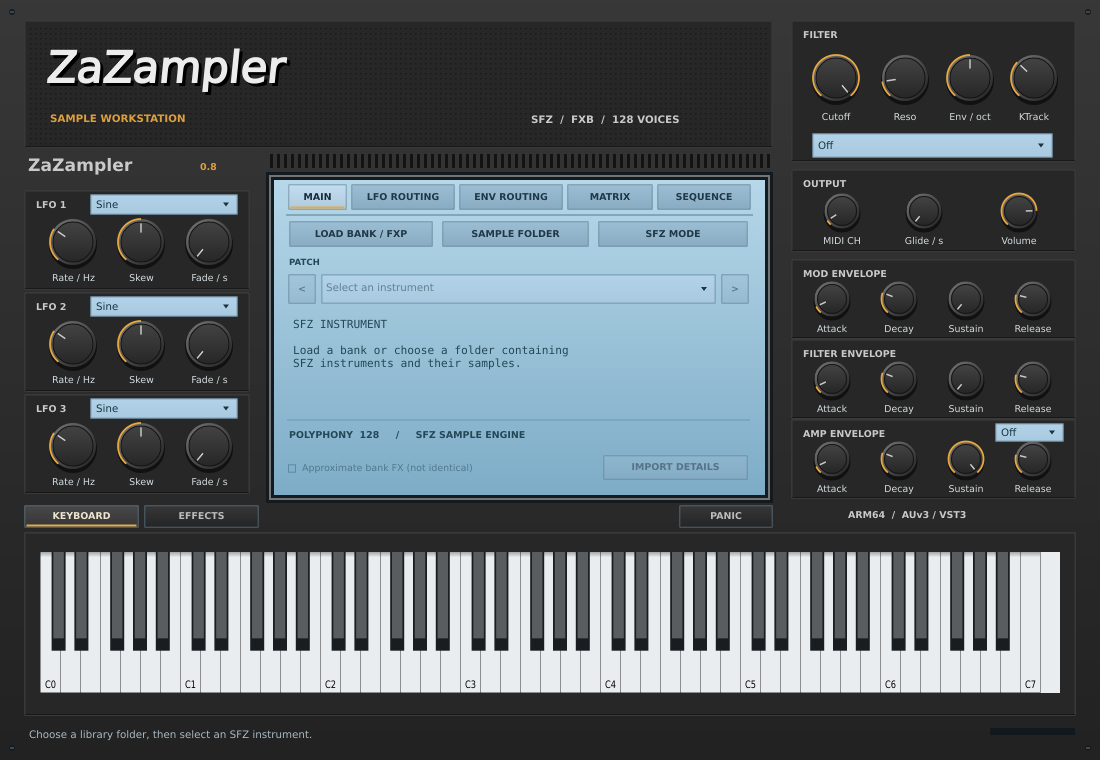
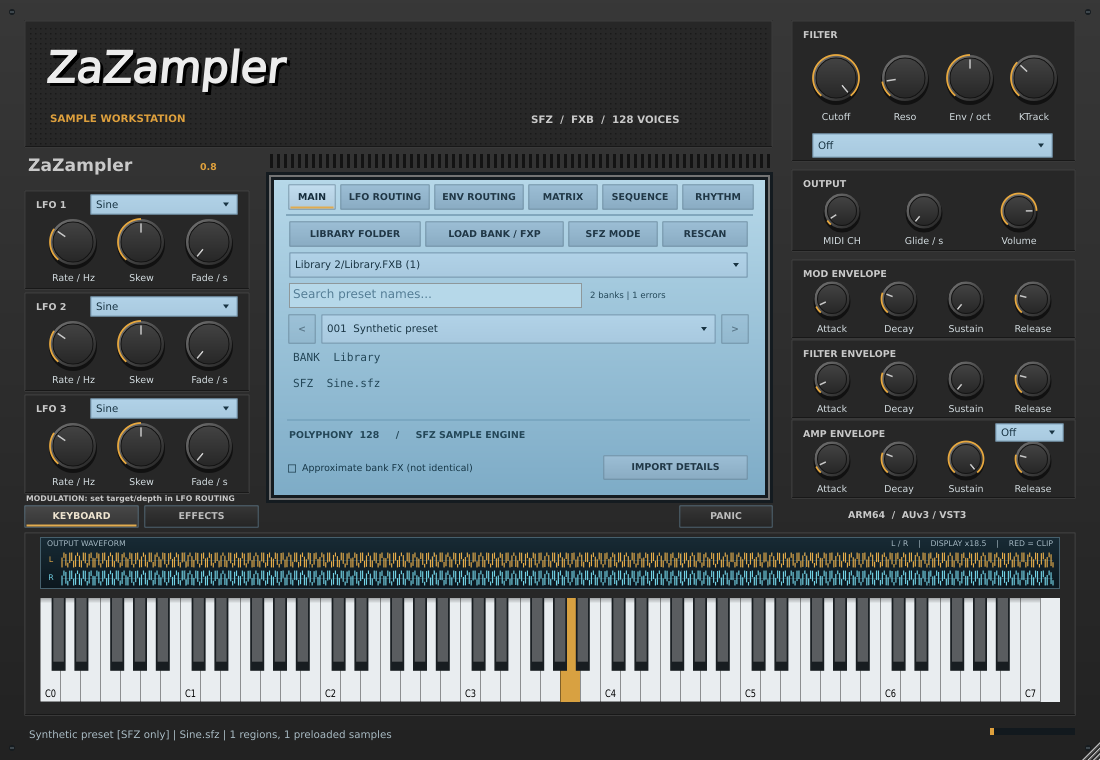
Add real-time stereo output visualizer above keyboard

diff --git a/Source/Editor.cpp b/Source/Editor.cpp
@@ -51,11 +51,11 @@ PanelControl& ZaZamplerEditor::knob(const char* id,const char* title,int x,int y
     auto& result=*c;controls.push_back(std::move(c));return result;
 }
 ZaZamplerEditor::ZaZamplerEditor(ZaZamplerProcessor& p)
-    : AudioProcessorEditor(p),processor(p),keyboard(p.keyboard,juce::MidiKeyboardComponent::horizontalKeyboard) {
+    : AudioProcessorEditor(p),processor(p),visualizer(p.waveform),keyboard(p.keyboard,juce::MidiKeyboardComponent::horizontalKeyboard) {
     setLookAndFeel(&look);
     addAndMakeVisible(canvas);
     canvas.setComponentID("instrumentCanvas");
-    for(auto* c:std::initializer_list<juce::Component*>{&libraries,&presetSearch,&libraryStatus,&scanButton,&folderButton,&panicButton,&patches,&status,&patchInfo,&keyboard,&fxPanel,&bankButton,&sfzButton,&detailsButton,&approximateFx,&previous,&next,&keysButton,&effectsButton,&mainButton,&lfoButton,&routingPanel,&envButton,&envRoutingPanel,&matrixButton,&sequenceButton,&matrixPanel,&sequencePanel,&rhythmButton,&rhythmPanel})canvas.addAndMakeVisible(c);
+    for(auto* c:std::initializer_list<juce::Component*>{&visualizer,&libraries,&presetSearch,&libraryStatus,&scanButton,&folderButton,&panicButton,&patches,&status,&patchInfo,&keyboard,&fxPanel,&bankButton,&sfzButton,&detailsButton,&approximateFx,&previous,&next,&keysButton,&effectsButton,&mainButton,&lfoButton,&routingPanel,&envButton,&envRoutingPanel,&matrixButton,&sequenceButton,&matrixPanel,&sequencePanel,&rhythmButton,&rhythmPanel})canvas.addAndMakeVisible(c);
     // Main-panel locations follow the familiar Zampler arrangement.
     knob("cutoff","Cutoff",800,48,72,78);knob("resonance","Reso",872,48,66,78);
     knob("envFilterAmount","Env / oct",938,48,64,78);knob("keytrack","KTrack",1002,48,64,78);
@@ -152,11 +152,11 @@ ZaZamplerEditor::ZaZamplerEditor(ZaZamplerProcessor& p)
     patchInfo.setJustificationType(juce::Justification::topLeft);
     setResizable(true,true);
     setResizeLimits(660,456,2200,1520);
-    setSize(1100,760);bottomPage(false);centrePage(false);timerCallback();startTimerHz(10);
+    setSize(1100,760);bottomPage(false);centrePage(false);timerCallback();startTimerHz(30);
 }
 ZaZamplerEditor::~ZaZamplerEditor() {stopTimer();setLookAndFeel(nullptr);}
 void ZaZamplerEditor::bottomPage(bool effects) {
-    showEffects=effects;fxPanel.setVisible(effects);keyboard.setVisible(!effects);
+    showEffects=effects;fxPanel.setVisible(effects);keyboard.setVisible(!effects);visualizer.setVisible(!effects);
     effectsButton.setToggleState(effects,juce::dontSendNotification);keysButton.setToggleState(!effects,juce::dontSendNotification);canvas.repaint();
 }
 void ZaZamplerEditor::centrePage(int page) {
@@ -272,6 +272,7 @@ void ZaZamplerEditor::selectPreset() {
     else if(juce::isPositiveAndBelow(slot,files.size()))processor.load(root,bookmark,files[slot].getRelativePathFrom(root));
 }
 void ZaZamplerEditor::timerCallback() {
+    visualizer.update();
     refreshLibraries();
     if(visibleBank!=processor.getBank()) {
         const auto location=processor.libraryLocation();
@@ -387,5 +388,5 @@ void ZaZamplerEditor::resized() {
     previous.setBounds(288,314,28,30);patches.setBounds(321,314,395,30);next.setBounds(721,314,28,30);
     patchInfo.setBounds(288,350,460,68);approximateFx.setBounds(286,454,305,29);detailsButton.setBounds(603,455,145,25);
     keysButton.setBounds(24,505,115,23);effectsButton.setBounds(144,505,115,23);panicButton.setBounds(679,505,94,23);
-    fxPanel.setBounds(32,532,1040,183);keyboard.setBounds(40,552,1020,141);status.setBounds(24,721,950,28);
+    fxPanel.setBounds(32,532,1040,183);visualizer.setBounds(40,537,1020,52);keyboard.setBounds(40,598,1020,104);status.setBounds(24,721,950,28);
 }

diff --git a/Source/WaveformDisplay.h b/Source/WaveformDisplay.h
@@ -1,0 +1,51 @@
+#pragma once
+#include <juce_gui_basics/juce_gui_basics.h>
+#include "WaveformCapture.h"
+
+class WaveformDisplay final : public juce::Component {
+public:
+    explicit WaveformDisplay(WaveformCapture& source) : capture(source) {
+        setComponentID("outputVisualizer");setInterceptsMouseClicks(false,false);
+    }
+    void update() {
+        const int count=capture.read(incoming.data(),static_cast<int>(incoming.size()));
+        if(count>0) {
+            lastUpdate=juce::Time::getMillisecondCounter();
+            for(int i=0;i<count;++i) {history[next]=incoming[static_cast<size_t>(i)];next=(next+1)%history.size();}
+        } else if(juce::Time::getMillisecondCounter()-lastUpdate>250)history.fill({});
+        if(isVisible())repaint();
+    }
+    void paint(juce::Graphics& g) override {
+        const auto area=getLocalBounds().toFloat();
+        g.setGradientFill(juce::ColourGradient(juce::Colour(0xff182b35),0,0,juce::Colour(0xff0c171e),0,area.getHeight(),false));g.fillRect(area);
+        g.setColour(juce::Colour(0xff46606d));g.drawRect(area,1);
+        g.setFont(juce::FontOptions(9.f));g.setColour(juce::Colour(0xffa7bac4));
+        g.drawText("OUTPUT WAVEFORM",7,1,180,12,juce::Justification::centredLeft);
+        float maximum=0;
+        for(const auto& f:history)maximum=std::max({maximum,std::abs(f.lowL),std::abs(f.highL),std::abs(f.lowR),std::abs(f.highR)});
+        const float zoom=maximum>0.00001f?juce::jlimit(1.f,32.f,0.9f/maximum):1.f;
+        g.drawText("L / R    |    DISPLAY x"+juce::String(zoom,1)+"    |    RED = CLIP",getWidth()-290,1,283,12,juce::Justification::centredRight);
+        const float x0=22.f,width=area.getWidth()-29.f,row=(area.getHeight()-16.f)*0.5f;
+        for(int channel=0;channel<2;++channel) {
+            const float centre=14.f+row*(static_cast<float>(channel)+0.5f),height=row*0.44f;
+            const auto colour=channel==0?juce::Colour(0xffe7ae4b):juce::Colour(0xff73d3e6);
+            g.setColour(juce::Colour(0xff2a424e));g.drawHorizontalLine(static_cast<int>(centre),x0,x0+width);
+            for(int i=1;i<8;++i)g.drawVerticalLine(static_cast<int>(x0+width*static_cast<float>(i)/8.f),centre-height,centre+height);
+            g.setColour(colour);g.drawText(channel==0?"L":"R",5,static_cast<int>(centre)-6,12,12,juce::Justification::centred);
+            for(size_t i=0;i<history.size();++i) {
+                const auto& f=history[(next+i)%history.size()];
+                const float low=channel==0?f.lowL:f.lowR,high=channel==0?f.highL:f.highR;
+                const float x=x0+width*static_cast<float>(i)/static_cast<float>(history.size()-1);
+                const float top=centre-juce::jlimit(-1.f,1.f,high*zoom)*height,bottom=centre-juce::jlimit(-1.f,1.f,low*zoom)*height;
+                g.setColour(low< -1.f || high>1.f?juce::Colour(0xffff684d):colour);
+                g.drawLine(x,top-0.35f,x,bottom+0.35f,1.15f);
+            }
+        }
+    }
+private:
+    WaveformCapture& capture;
+    std::array<WaveformCapture::Frame,512> history {};
+    std::array<WaveformCapture::Frame,WaveformCapture::capacity> incoming {};
+    size_t next=0;
+    juce::uint32 lastUpdate=0;
+};

diff --git a/Source/WaveformCapture.h b/Source/WaveformCapture.h
@@ -1,0 +1,38 @@
+#pragma once
+#include <juce_core/juce_core.h>
+#include <array>
+#include <cmath>
+
+// Single audio producer / single editor consumer. Fixed storage, no locks,
+// allocation or UI calls in push(). Preserve extrema rather than skipping peaks.
+class WaveformCapture {
+public:
+    struct Frame { float lowL=0,highL=0,lowR=0,highR=0; };
+    static constexpr int capacity=2048, samplesPerFrame=32;
+    void push(const float* left,const float* right,int count) noexcept {
+        for(int i=0;i<count;++i) {
+            const float l=std::isfinite(left[i])?left[i]:0.f,r=std::isfinite(right[i])?right[i]:0.f;
+            if(accumulated==0)frame={l,l,r,r};
+            else {
+                frame.lowL=std::min(frame.lowL,l);frame.highL=std::max(frame.highL,l);
+                frame.lowR=std::min(frame.lowR,r);frame.highR=std::max(frame.highR,r);
+            }
+            if(++accumulated==samplesPerFrame) {
+                int start1,size1,start2,size2;fifo.prepareToWrite(1,start1,size1,start2,size2);
+                if(size1>0) {data[static_cast<size_t>(start1)]=frame;fifo.finishedWrite(1);}
+                accumulated=0; // A slow/closed editor drops display data, never audio.
+            }
+        }
+    }
+    int read(Frame* destination,int maximum) noexcept {
+        int start1,size1,start2,size2;fifo.prepareToRead(maximum,start1,size1,start2,size2);
+        for(int i=0;i<size1;++i)destination[i]=data[static_cast<size_t>(start1+i)];
+        for(int i=0;i<size2;++i)destination[size1+i]=data[static_cast<size_t>(start2+i)];
+        fifo.finishedRead(size1+size2);return size1+size2;
+    }
+private:
+    std::array<Frame,capacity> data {};
+    juce::AbstractFifo fifo {capacity};
+    Frame frame;
+    int accumulated=0;
+};

diff --git a/Tests/WaveformChecks.h b/Tests/WaveformChecks.h
@@ -1,0 +1,22 @@
+#pragma once
+#include "WaveformCapture.h"
+namespace waveformchecks {
+inline void run() {
+    WaveformCapture capture,split;
+    std::array<float,96> left {},right {};
+    for(size_t i=0;i<left.size();++i) {left[i]=static_cast<float>(i%32)/16.f-1.f;right[i]=-left[i];}
+    capture.push(left.data(),right.data(),96);
+    split.push(left.data(),right.data(),17);split.push(left.data()+17,right.data()+17,79);
+    std::array<WaveformCapture::Frame,WaveformCapture::capacity> frames {},other {};
+    check(capture.read(frames.data(),10)==3 && split.read(other.data(),10)==3,"visualizer frame count and block split");
+    for(int i=0;i<3;++i) {
+        const auto& f=frames[static_cast<size_t>(i)];const auto& s=other[static_cast<size_t>(i)];
+        check(f.lowL==-1.f && f.highL==0.9375f && f.lowR==-0.9375f && f.highR==1.f,"visualizer stereo extrema preserve antiphase");
+        check(f.lowL==s.lowL && f.highL==s.highL && f.lowR==s.lowR && f.highR==s.highR,"visualizer split invariant");
+    }
+    check(capture.read(frames.data(),10)==0,"visualizer drain");
+    for(int i=0;i<1000;++i)capture.push(left.data(),right.data(),96);
+    check(capture.read(frames.data(),WaveformCapture::capacity)==WaveformCapture::capacity-1,"closed editor overflow is bounded");
+    capture.push(left.data(),right.data(),32);check(capture.read(frames.data(),10)==1,"visualizer resumes after overflow");
+}
+}

diff --git a/Tests/LibraryChecks.h b/Tests/LibraryChecks.h
@@ -36,6 +36,9 @@ inline void run(const juce::File& demo,const juce::File& screenshot={}) {
         auto* gain=p.parameters.getParameter("gain");gain->setValueNotifyingHost(gain->convertTo0to1(db));
         p.panic();juce::AudioBuffer<float> audio(2,2048);juce::MidiBuffer midi;
         midi.addEvent(juce::MidiMessage::noteOn(1,69,(juce::uint8)127),0);p.processBlock(audio,midi);
+        std::array<WaveformCapture::Frame,WaveformCapture::capacity> captured {};
+        const auto count=p.waveform.read(captured.data(),WaveformCapture::capacity);
+        check(count>0,"processor publishes output to visualizer");
         return audio.getRMSLevel(0,512,1536);
     };
     const auto unity=measure(0),old=measure(-6);
@@ -69,6 +72,7 @@ inline void run(const juce::File& demo,const juce::File& screenshot={}) {
         check(presets && presets->getText().contains("Library 2"),"SFZ browser restores selected file");
     }
     if(screenshot!=juce::File()) {
+        juce::AudioBuffer<float> audio(2,16384);juce::MidiBuffer midi;p.processBlock(audio,midi);
         std::unique_ptr<juce::AudioProcessorEditor> editor(p.createEditor());
         juce::FileOutputStream output(screenshot);check(output.openedOk(),"browser screenshot output");
         check(output.setPosition(0) && output.truncate().wasOk(),"browser screenshot truncate");

diff --git a/Source/Processor.cpp b/Source/Processor.cpp
@@ -155,7 +155,8 @@ void ZaZamplerProcessor::processBlock(juce::AudioBuffer<float>& out, juce::MidiB
     std::unique_lock<std::mutex> l(engineMutex,std::defer_lock);
     if(isNonRealtime())l.lock();else l.try_lock();
     if (!l.owns_lock() || !instrument || loading.load()) {
-        panicRequested.store(true); midi.clear(); peak.store(0); return;
+        panicRequested.store(true); midi.clear(); peak.store(0);
+        waveform.push(out.getReadPointer(0),out.getReadPointer(1),frames);return;
     }
     auto& engine = *instrument->engine;
     if (panicRequested.exchange(false)) { engine.panic(); effects.reset();resetPerformance(); }
@@ -196,6 +197,7 @@ void ZaZamplerProcessor::processBlock(juce::AudioBuffer<float>& out, juce::MidiB
         engine.render(out.getWritePointer(0,start),out.getWritePointer(1,start),n,pitchFrames.data(),voiceMode!=0);
         effects.process(out.getWritePointer(0,start),out.getWritePointer(1,start),n,fx,bpm,{},nullptr,{},nullptr,modulationFrames.data());
     }
+    waveform.push(out.getReadPointer(0),out.getReadPointer(1),frames);
     midi.clear();
     const double repeats=fx.delayFeedback>0 ? 1.+std::ceil(std::log(0.0001)/std::log(juce::jlimit(0.0001f,0.95f,fx.delayFeedback))) : 1.;
     const double delayTail=fx.delayMix>0 ? Effects::delayMilliseconds(fx,bpm)*0.001*repeats : 0.;

diff --git a/Tests/ProcessorTest.cpp b/Tests/ProcessorTest.cpp
@@ -23,6 +23,7 @@ static void wait(ZaZamplerProcessor& p){
 }
 #include "BankImportChecks.h"
 #include "LibraryChecks.h"
+#include "WaveformChecks.h"
 int main(int argc,char** argv){
     juce::ScopedJuceInitialiser_GUI initialise;
     try {
@@ -59,7 +60,7 @@ int main(int argc,char** argv){
                 check(editor->getComponentAt(point)==button,"scaled controls must retain mouse hit testing");
             }
         }
-        rhythmchecks::run();
+        waveformchecks::run();rhythmchecks::run();
         fxchecks::run();lfochecks::run();envelopechecks::run();
         check(argc==2,"demo directory required");juce::File root(argv[1]);
         librarychecks::run(root);bankchecks::run(root);performancechecks::run(root.getChildFile("Sine.sfz").getFullPathName().toStdString());performancechecks::processorAudio(root);

diff --git a/Source/Editor.h b/Source/Editor.h
@@ -1,6 +1,7 @@
 #pragma once
 #include "Processor.h"
 #include "InstrumentLook.h"
+#include "WaveformDisplay.h"
 class PanelControl;
 class ZaZamplerEditor final : public juce::AudioProcessorEditor, private juce::Timer {
 public:
@@ -30,6 +31,7 @@ private:
     void refreshLibraries();
     void selectLibrary();
     juce::Label status,patchInfo;
+    WaveformDisplay visualizer;
     juce::MidiKeyboardComponent keyboard;
     std::vector<std::unique_ptr<PanelControl>> controls;
     juce::Component fxPanel,routingPanel,envRoutingPanel,matrixPanel,sequencePanel,rhythmPanel;

diff --git a/Source/Processor.h b/Source/Processor.h
@@ -5,6 +5,7 @@
 #include "BankImport.h"
 #include "FolderAccess.h"
 #include "LibraryCatalog.h"
+#include "WaveformCapture.h"
 #include <thread>
 #include <mutex>
 #include <condition_variable>
@@ -46,6 +47,7 @@ public:
     bool isReady() const { return ready.load(); }
     void panic() { panicRequested.store(true); }
     LibraryCatalog libraries;
+    WaveformCapture waveform;
     juce::String currentBankPath() const;
     juce::String currentInstrumentPath() const;
     juce::AudioProcessorValueTreeState parameters;

diff --git a/docs/VALIDATION.md b/docs/VALIDATION.md
@@ -179,3 +179,8 @@ Mac上の実行手順は `MAC_ACCEPTANCE.md` に記載。
 - 同一SFZ・ノートの実レンダリングで0 dBと−6 dBのRMS比を測定。保存済み−6 dBは復元後も維持。
 - `processor_test --snapshot-browser /absolute/path/to/Demo /absolute/path/to/editor.png` で読み込み済みブラウザを描画。
 - 他音源とのラウドネス一致、実ライブラリ全種類、AUv3でのNAS権限は実機確認が必要。
+
+## Visualizer
+
+- ステレオ逆相信号の最小／最大値、ブロック分割の不変性、FIFO満杯時の破棄と復帰を検証。
+- processorの実出力が波形FIFOへ渡ることを確認。読み込み済みブラウザ画像で波形と鍵盤の配置を検証。

diff --git a/CHANGES.md b/CHANGES.md
@@ -2,6 +2,8 @@
 
 ## 未リリース
 
+- 鍵盤上に出力ステレオ波形Visualizerを追加。L/R表示、表示倍率の自動調整、クリップ色表示、停止時クリア。固定長FIFOで音声処理と描画を分離。
+
 - MAINにライブラリブラウザを追加。親フォルダーからFXB/FXPを非同期で検出し、ライブラリ選択・音色名検索・再スキャンに対応。親フォルダーと選択状態をDAWへ保存。
 - 同名SFZが別ライブラリにもある場合、選択バンクのフォルダー内を優先して解決。
 - 出力初期値を−6 dBから0 dBへ変更。既存の保存済みゲインは維持。
